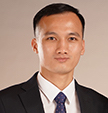
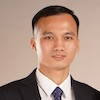
minor update

Changed region(s): [[0.0, 0.0, 1.0, 1.0], [0.69, 0.99, 0.72, 1.0]]

diff --git a/_projects/Autoware-cutin-cutout-deceleration.md b/_projects/Autoware-cutin-cutout-deceleration.md
@@ -10,7 +10,7 @@ related_publications: true
 # giscus_comments: true
 ---
 
-In this project, we conducted a bundle of experiments to evaluate the safety of Autoware, a leading open-source ADS platform. Autoware and Baidu Apollo are the only open-source autonomous driving platforms supporting full autonomy (by 2024). While there exist many studies subject to Baidu Apollo safety analysis, to the best of our knowledge, this study is the first to attempt either verification or automated testing of Autoware.
+In this project, we conducted a bundle of experiments to evaluate the safety of Autoware, a leading open-source autonomous driving system (ADS). Autoware and Baidu Apollo are the only open-source autonomous driving platforms supporting full autonomy (by 2024). While there exist many studies subject to Baidu Apollo safety analysis, to the best of our knowledge, this study is the first to attempt either verification or automated testing of Autoware.
 Unlike many existing studies that primarily focus on identifying and/or generating critical scenarios (that pose significant risks to ADSs or may lead to collisions), we base our approach on a well-established safety standard--[the JAMA standard](https://www.jama.or.jp/english/reports/docs/Automated_Driving_Safety_Evaluation_Framework_Ver3.0.pdf)--which offers a systematic methodology for evaluating ADS safety.
 
 ## JAMA standard
@@ -20,8 +20,9 @@ The JAMA standard takes into account comprehensive variations of all factors tha
 
 We conducted a series of experiments to assess the safety of Autoware under different traffic disturbance variations defined by the JAMA standard in non-intersection road geometries, such as vehicles cutting in, cutting out, and decelerating. While no collision would occur under the competent and careful human driver model, which simulates a highly skilled and cautious human driver, Autoware failed to prevent collisions in some cases. JAMA established this competent and careful driver model as the minimum safety benchmark. An ADS must show a higher level of hazard detection and collision avoidance performance than this model; otherwise, the ADS is unsafe.
 
-## Demonstration of some collisions
 > Autoware collision avoidance is not as good as the careful driver model. 
+
+## Demonstration of some collisions
 
 In the experiments, we found that Autoware failed to prevent collisions in some cases, particularly during high-speed scenarios and fast lateral movements by other vehicles.
 Below are demonstrations of some collisions.
@@ -82,4 +83,5 @@ A collision occurred in the camera-lidar fusion perception mode (video above).
 
 <!-- In contrast, the lidar-only mode could avoid a collision, see the following video: -->
 
-All materials supporting this project are available at [https://github.com/duongtd23/AW-Runtime-Verification](https://github.com/duongtd23/AW-Runtime-Verification).
+Detailed experimental results are reported in our paper {% cite TranIEEETR2025 %},
+and all materials supporting the experiments are available at [https://github.com/duongtd23/AW-Runtime-Verification](https://github.com/duongtd23/AW-Runtime-Verification).

diff --git a/_projects/ADS-runtime-verification.md b/_projects/ADS-runtime-verification.md
@@ -9,9 +9,9 @@ category: ads
 related_publications: true
 ---
 
-Ensuring the safety of Autonomous Driving Systems (ADSs) through rigorous verification in simulated environments is crucial before real-world deployment. However, using simulation environments for ADS testing and verification poses several challenges, including specifying various behaviors of traffic participants and collecting comprehensive real-time data to verify the ADS. 
+Ensuring the safety of autonomous driving systems (ADSs) through rigorous verification in simulated environments is crucial before real-world deployment. However, using simulation environments for ADS testing and verification poses several challenges, including specifying various behaviors of traffic participants and collecting comprehensive real-time data to verify the ADS. 
 
-To address these challenges, we propose a framework for runtime verification of ADSs, focusing on Autoware, a leading ADS. This framework integrates AWSIM-Script, a scripting language for defining traffic scenarios; Runtime Monitor, a tool to record and log real-time data during the simulation for offline verification; and AW-Checker, a Linear Temporal Logic-based property checker for verifying safety requirements. 
+To address these challenges, we propose a framework {% cite TranIEEETR2025 %} for runtime verification of ADSs. This framework integrates AWSIM-Script, a scripting language for defining traffic scenarios; Runtime Monitor, a tool to record and log real-time data during the simulation for offline verification; and AW-Checker, a Linear Temporal Logic-based property checker for verifying safety requirements. 
 
 ![Framework Overview](../../assets/img/projects/framework-overview.jpg){: width="600"}
 
@@ -34,5 +34,5 @@ We use Maude as the specification and programming language to define the syntax 
 Using the Maude LTL model checker, AW-Checker verifies whether the trace satisfies the given properties. 
 Leveraging the Maude LTL model checker offers two key benefits: it provides high performance and helps avoid potential bugs that could arise from self-implemented search/checking algorithms.
 
-The framework's source code is available at [https://github.com/duongtd23/AW-Runtime-Verification](https://github.com/duongtd23/AW-Runtime-Verification).
-A paper reporting this framework has been submitted to an IEEE Transactions journal and is currently under review.
+Techical details of the framework are presented in our paper {% cite TranIEEETR2025 %}, and
+the framework's source code is available at [https://github.com/duongtd23/AW-Runtime-Verification](https://github.com/duongtd23/AW-Runtime-Verification).

diff --git a/_projects/AD-safety-shield-through-onlineMC.md b/_projects/AD-safety-shield-through-onlineMC.md
@@ -26,7 +26,7 @@ these safety rules, the safety shield intervenes, either by modifying the action
 a safe alternative or by preventing its execution altogether.
 
 ## Decision-making Safety Shield based on Online model checking
-In this work {% cite Tran2025 %}, we propose leveraging **online model checking** to develop a
+In this work {% cite TranABZ2025 %}, we propose leveraging **online model checking** to develop a
 safety shield for AD. 
 Online model checking is a lightweight runtime verification technique designed to ensure the correctness of a system’s execution trace as it
 runs. 
